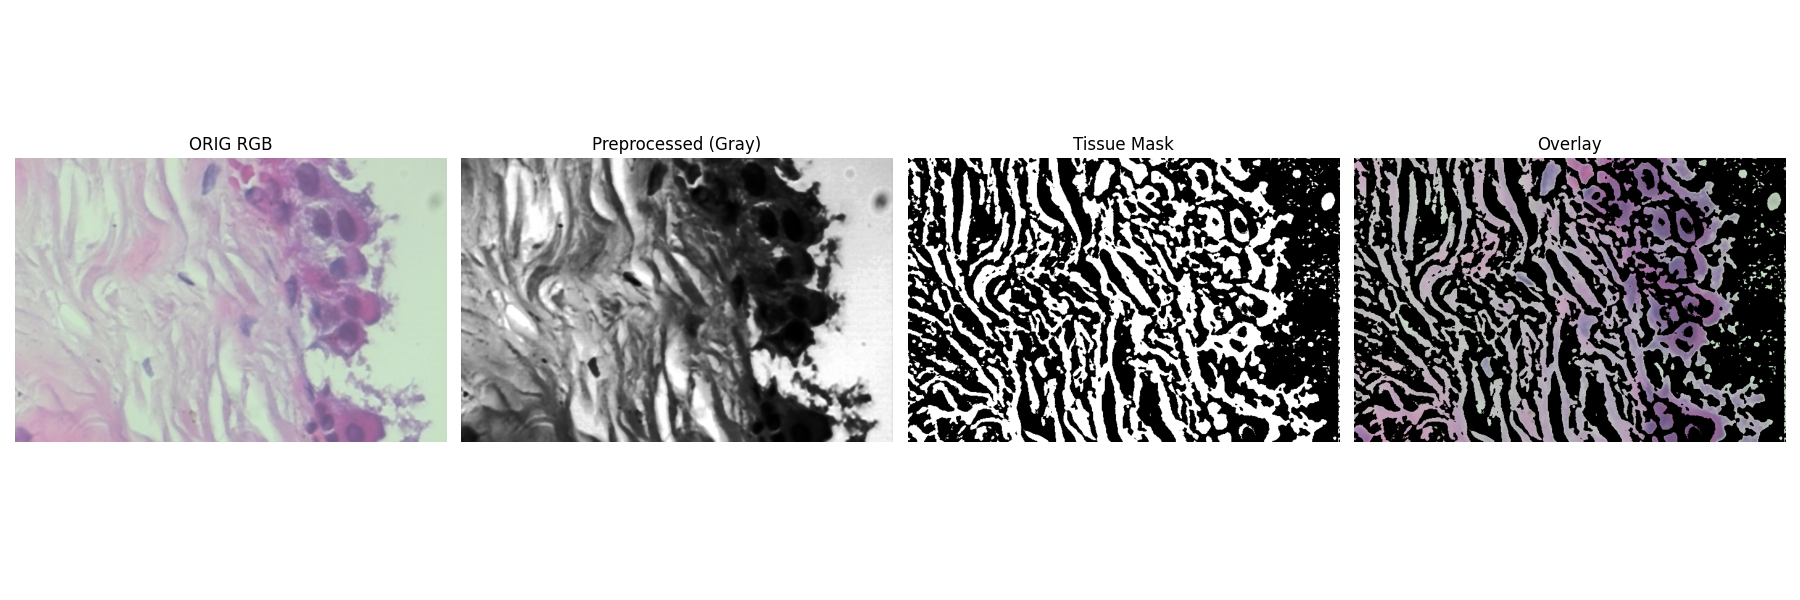
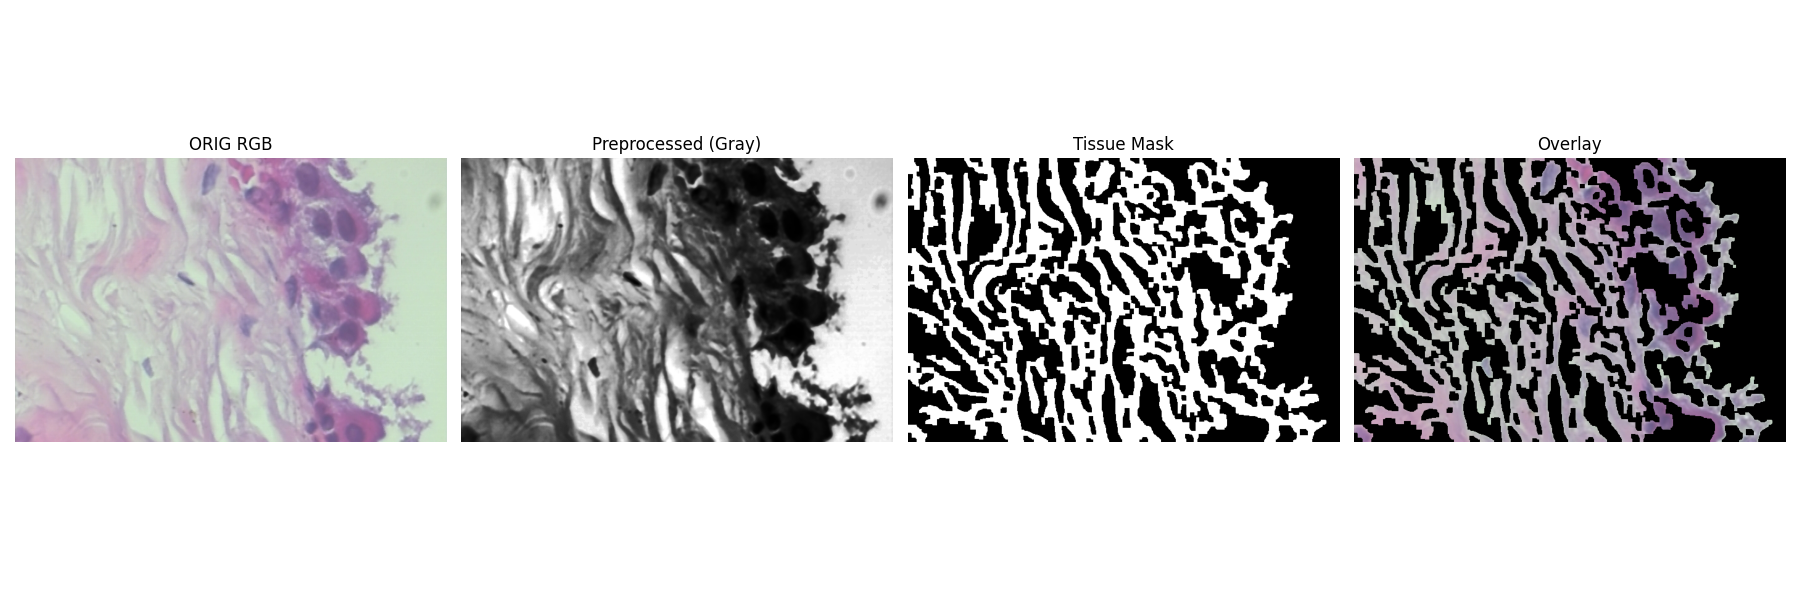
cleaned masks

Changed region(s): [[0.4978, 0.24, 0.9956, 0.75], [0.9644, 0.63, 0.9956, 0.66]]

diff --git a/histopath_pipeline/tissue_pipeline.py b/histopath_pipeline/tissue_pipeline.py
@@ -120,6 +120,24 @@ class TissueSegmenter:
         contours, _hier = cv2.findContours(mask, cv2.RETR_EXTERNAL, cv2.CHAIN_APPROX_SIMPLE)
         return contours
 
+    # def segment(self, img_gray: np.ndarray) -> SegmentationResult:
+    #     if self.method in ("adaptive_gaussian", "adaptive_mean"):
+    #         mask = self.threshold_adaptive(img_gray)
+    #     elif self.method == "otsu":
+    #         mask = self.threshold_otsu(img_gray)
+    #     else:
+    #         raise ValueError(f"Unknown method: {self.method}")
+    #     contours = self.find_regions(mask)
+    #     return SegmentationResult(mask=mask, contours=contours)
+    
+    # def segment(self, img_gray: np.ndarray) -> SegmentationResult:
+    #     if self.method in ("adaptive_gaussian", "adaptive_mean"):
+    #         mask = self.threshold_adaptive(img_gray)
+    #     elif self.method == "otsu":
+    #         mask = self.threshold_otsu(img_gray)
+    #     else:
+    #         raise ValueError(f"Unknown method: {self.method}")
+
     def segment(self, img_gray: np.ndarray) -> SegmentationResult:
         if self.method in ("adaptive_gaussian", "adaptive_mean"):
             mask = self.threshold_adaptive(img_gray)
@@ -127,15 +145,38 @@ class TissueSegmenter:
             mask = self.threshold_otsu(img_gray)
         else:
             raise ValueError(f"Unknown method: {self.method}")
-        contours = self.find_regions(mask)
-        return SegmentationResult(mask=mask, contours=contours)
+
+        # Cleanup mask
+
+        # Convert to binary 0/1
+        mask_bin = (mask > 0).astype(np.uint8)
+
+        # closing; fill small holes inside tissue
+        kernel_close = np.ones((7, 7), np.uint8)
+        mask_bin = cv2.morphologyEx(mask_bin, cv2.MORPH_CLOSE, kernel_close)
+
+        # opening; remove small bright noise specks
+        kernel_open = np.ones((5, 5), np.uint8)
+        mask_bin = cv2.morphologyEx(mask_bin, cv2.MORPH_OPEN, kernel_open)
+
+        # connected-component filtering; remove very small blobs
+        num_labels, labels, stats, _ = cv2.connectedComponentsWithStats(mask_bin, connectivity=8)
+        min_area = 500  # adjust depending on resolution
+        cleaned = np.zeros_like(mask_bin)
+        for i in range(1, num_labels):
+            if stats[i, cv2.CC_STAT_AREA] >= min_area:
+                cleaned[labels == i] = 1
+
+        mask_clean = (cleaned * 255).astype(np.uint8)
+
+        contours = self.find_regions(mask_clean)
+        return SegmentationResult(mask=mask_clean, contours=contours)
 
     def overlay(self, img_rgb: np.ndarray, mask: np.ndarray) -> np.ndarray:
         return cv2.bitwise_and(img_rgb, img_rgb, mask=mask)
 
 
 # Visualization
-
 
 class Visualizer:
     @staticmethod
@@ -211,6 +252,7 @@ class TissuePipeline:
             gray = self.pre.run(cv2.cvtColor(rgb, cv2.COLOR_RGB2BGR))
             seg = self.segmenter.segment(gray)
             overlay = self.segmenter.overlay(rgb, seg.mask)
+
 
             # Visualize the first (original) variant if requested
             if self.config.show and tag == "orig":

diff --git a/README.md b/README.md
@@ -1,39 +1,57 @@
 # Histopath Pipeline — Digital Pathology Preprocessing & Stain Augmentation
 
-This pipeline provides an end-to-end preprocessing and segmentation workflow for digital pathology images such as H&E-stained histology slides. It performs realistic stain perturbation augmentation, grayscale preprocessing, and adaptive threshold-based tissue segmentation.
+This pipeline provides an end-to-end preprocessing and segmentation workflow for digital pathology images such as H&E-stained histology slides. It performs realistic stain perturbation augmentation, grayscale preprocessing, and adaptive or Otsu tissue segmentation.
 
 ---
 
-## Overview
+## Overview 
 
-1. Loads whole-slide or patch-level RGB images.  
-2. Optionally generates stain-perturbed versions of each image using HistomicsTK to simulate realistic color variation.  
-3. Converts images to grayscale and applies Gaussian blur and optional histogram equalization.  
-4. Segments tissue using adaptive or Otsu thresholding to separate tissue from background.  
-5. Saves grayscale, mask, overlay, and augmented versions for further analysis or machine learning.
+1. Load RGB images.
+2. Optionally augment stains using HistomicsTK to simulate realistic color variation.  
+3. Preprocess images → convert to grayscale, apply Gaussian blur, and optionally perform histogram equalization.  
+4. Segment tissue using adaptive or Otsu thresholding to distinguish tissue from background.  
+5. Post-process masks using morphological operations to clean up small gaps and noise.  
+6. Save artifacts for each original and augmented image:  
+   - Grayscale image  
+   - Binary tissue mask (white = tissue, black = background)  
+   - Overlay (mask × RGB)  
+   - Augmented variants (if enabled)
 
 ---
 
 ## Dependencies
 
-Install the required packages before running the pipeline:
+Install all required packages:
 
 ```bash
 pip install histomicstk opencv-python matplotlib numpy
 ```
-[HistomicsTK](https://digitalslidearchive.github.io/HistomicsTK/) — provides stain normalization and augmentation tools used for simulating realistic histopathology color variation (`rgb_perturb_stain_concentration`).
-This allows the pipeline to create augmented images that mimic real-world staining differences between labs or scanners.
 
+Libraries used:
+- [HistomicsTK](https://digitalslidearchive.github.io/HistomicsTK/): provides `rgb_perturb_stain_concentration` for realistic stain perturbations.  
+- OpenCV (cv2): handles image I/O, color conversion, Gaussian blurring, thresholding, contour extraction, and overlay generation.  
+- Matplotlib: for visualization and figure export.  
+- NumPy: for fast array and numerical operations.
 
-OpenCV (cv2) — handles image I/O, color space conversions, blurring, adaptive and Otsu thresholding, contour extraction, and overlay generation.
-It forms the backbone of preprocessing and segmentation.
+---
 
-Matplotlib — handles visualization and side-by-side display.
+## Processing Workflow
 
-NumPy — supports fast array operations and numerical processing.
+For each input image, the pipeline performs the following:
 
+| Step | Description | Output |
+|------|--------------|---------|
+| 1 | Load | Read input RGB image → `*_rgb.png` |
+| 2 | Preprocess | Convert to grayscale → blur → (optional) equalize → `*_gray.png` |
+| 3 | Segment | Adaptive or Otsu threshold → binary tissue mask → `*_mask.png` |
+| 4 | Overlay | Apply mask to RGB image → `*_overlay.png` |
+| 5 | (Optional) Stain Augmentation | Generate `n_aug` color-perturbed versions via HistomicsTK → `*_rgb_augN.png` |
+| 6 | Repeat steps 2–4 for each augmented image | Grayscale, mask, and overlay for every augmented version → `*_gray_augN.png`, `*_mask_augN.png`, `*_overlay_augN.png` |
 
-
+Final binary masks:  
+- `*_mask.png` — segmentation of the original image  
+- `*_mask_augN.png` — segmentation of each stain-augmented variant  
+Each mask is a binary `uint8` image (0 = background, 255 = tissue).
 
 ---
 
@@ -44,36 +62,32 @@ Example visualizations are stored in `images/`:
 | Description | Image |
 |--------------|-------|
 | Local threshold result | ![Local Threshold](images/local_thresh.png) |
-| Stain-augmented RGB | ![Stain Augment](images/stain_augment_rgb.png) |
+| Stain-augmented RGBs | ![Stain Augment](images/stain_augment_rgb.png) |
 
 ---
 
-Stain augmentation introduces controlled random variation in color intensity and channel composition.  
-This mimics the natural differences caused by slide preparation, staining concentration, and scanner hardware.  
-By exposing models to these variations during training, augmentation improves robustness and generalization across datasets and institutions.
+### Stain Augmentation & Adaptive Thresholding
 
-Local adaptive (Otsu-like) thresholding adapts the segmentation decision to regional intensity differences instead of relying on one global threshold.  This is useful when slides have uneven illumination, scanner shading, or variable staining.
+Histopathology images often vary in color and intensity due to differences in slide preparation, staining, reagents, scanners, or illumination.  
+To address this, the pipeline applies stain augmentation to simulate realistic color variation, improving model robustness and generalization.  
+
+For segmentation, adaptive thresholding is used instead of a single global cutoff. It dynamically adjusts to local intensity differences, making tissue extraction more reliable under uneven staining or lighting conditions.
+
 
 ---
 
-## Command-line usage
+## Command-line Usage
 
-Run the script as a Python module from the project root:
+### Process a single image
 
 ```bash
 cd histopath-pipeline-demo
 
-python -m histopath_pipeline.tissue_pipeline \
-    --image '/Users/jamieannemortel/Downloads/BreaKHis 400X/test/benign/SOB_B_A-14-22549AB-400-001.png' \
-    --n_stain_aug 3 \
-    --save_dir '/Users/jamieannemortel/Documents/Projects/histopath-pipeline-demo/output' \
-    --show
+python -m histopath_pipeline.tissue_pipeline     --image '/path/to/SOB_B_A-14-22549AB-400-001.png'     --n_stain_aug 3     --save_dir './output'     --show
 ```
-To process a directory:
+
+### Process a directory
 
 ```bash
-python -m histopath_pipeline.tissue_pipeline \
-    --dir 'PATH' \
-    --n_stain_aug 5 \
-    --save_dir './output'
+python -m histopath_pipeline.tissue_pipeline     --dir '/path/to/patches'     --n_stain_aug 5     --save_dir './output'
 ```
